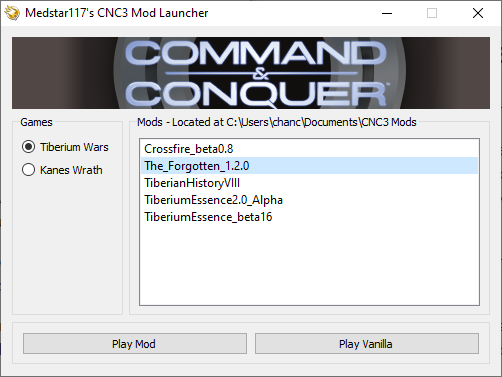
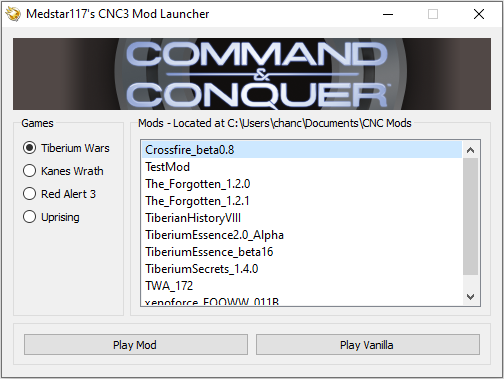
v1.3 Update
+ Added support for both RA3 and Uprising
+/- Updated all files to v1.3

Changed region(s): [[0.2092, 0.0875, 0.9562, 0.817], [0.0, 0.0, 1.0, 1.0], [0.508, 0.8753, 0.9562, 0.9629]]

diff --git a/source/CNC3 Mod Installer.py b/source/CNC3 Mod Installer.py
@@ -110,6 +110,32 @@ class Window(QWidget):
             self.setListItems(game_data[game]["Mods"])
             self.selectedGame = game
 
+    def startGame(self):
+        """Runs the appropriate game executable."""
+
+        def _runStandard():
+            os.chdir(game_data[self.selectedGame]["Launcher Path"])
+            game_exe = game_data[self.selectedGame]["EXE Name"]
+            if os.path.exists(game_exe):
+                call(game_exe)
+            else:
+                call(game_exe.lower())
+
+        def _runOrigin(origin):
+            """Run game from Origin launcher."""
+            if game_data[origin]["Launcher Path"] != False:
+                os.chdir(game_data[origin]["Launcher Path"])
+                print(os.getcwd())
+                call(game_data[origin]["EXE Name"])
+            else:
+                _runStandard()
+
+        #Add Game Selection
+        if self.selectedGame == "Tiberium Wars" or self.selectedGame == "Kanes Wrath":
+            _runOrigin("Origin 3")
+        elif self.selectedGame == "Red Alert 3" or self.selectedGame == "Uprising":
+            _runOrigin("Origin RA3")
+
     def install_playGame(self):
         """Check selected mod and either install the mod or restore the retail
         .SkuDef file before launching the appropriate executable."""
@@ -139,21 +165,6 @@ class Window(QWidget):
                     skudef.write("add-config {}\n".format(file))
                 skudef.writelines(orig_skudef_lang_data)
 
-        def _startGame():
-            """Runs the appropriate game executable."""
-            if self.selectedGame == "Tiberium Wars" or "Kanes Wrath":
-                if game_data["Origin"]["Launcher Path"] != False:
-                    os.chdir(game_data["Origin"]["Launcher Path"])
-                    call(game_data["Origin"]["EXE Name"])
-                else:
-                    os.chdir(game_data[self.selectedGame]["Launcher Path"])
-                    game_exe = game_data[self.selectedGame]["EXE Name"]
-                    if os.path.exists(game_exe):
-                        call(game_exe)
-                    else:
-                        call(game_exe.lower())
-
-
         #TODO: Expect language files other than "CNC3_english_1.9.SkuDef"
         #(e.g. "CNC3_french_1.9.SkuDef", etc.)
         button_name = self.sender().text()
@@ -164,10 +175,10 @@ class Window(QWidget):
 
         if button_name == "Play Mod":
             _install_mod()
-            _startGame()
+            self.startGame()
         elif button_name == "Play Vanilla":
             _restoreSkuDef()
-            _startGame()
+            self.startGame()
 
 
 """---------------------------Non-GUI Functions---------------------------"""
@@ -217,16 +228,22 @@ def fetch_mods(path):
 """------------------------Main Loop Initialization------------------------"""
 if __name__ == "__main__":
     #General data
-    launcher_names = ["origin_launcher_path", "tiberium_launcher_path", "kane_launcher_path"]
-    exe_names = ["CNC3Launcher.exe", "CNC3.exe", "CNC3EP1.exe"]
-    supported_games = ["Tiberium Wars", "Kanes Wrath"]
+    #Add Game Launcher
+    launcher_names = ["origin_3_launcher_path", "tiberium_launcher_path", "kane_launcher_path",
+                      "origin_ra_launcher_path", "ra_launcher_path", "uprising_launcher_path"]
+    #Add Game EXE
+    exe_names = ["CNC3Launcher.exe", "CNC3.exe", "CNC3EP1.exe",
+                 "RA3Launcher.exe", "RA3.exe", "RA3EP1.exe"]
+    #Add Game Supported Game
+    supported_games = ["Tiberium Wars", "Kanes Wrath",
+                       "Red Alert 3", "Uprising"]
+                       #"Generals", "Zero Hour"]
+
     supported_games_count = len(supported_games)
 
     #Set mod paths
     cnc_mods_path = os.path.join(os.path.expanduser("~"), "Documents", "CNC Mods")
-    tiberium_mods_path = os.path.join(cnc_mods_path, "Tiberium Wars")
-    kane_mods_path = os.path.join(cnc_mods_path, "Kanes Wrath")
-    mod_paths = [tiberium_mods_path, kane_mods_path]
+    mod_paths = [os.path.join(cnc_mods_path, game) for game in supported_games]
 
     #Check if expected paths exist; if not, create them.
     for path in mod_paths:
@@ -240,7 +257,7 @@ if __name__ == "__main__":
     if os.path.exists(path_info) == True:
         with open(path_info, "r") as data:
             paths = load(data)
-        launcher_paths = [paths[name] for name in launcher_names]#Origin, Tiberium, Kane
+        launcher_paths = [paths[name] for name in launcher_names]#Origin3, Tiberium, Kane, OriginRA3, RA3, Uprising
     else:
         launcher_dict = find_launchers()
         launcher_paths = [launcher_dict[exe] for exe in exe_names]

diff --git a/README.md b/README.md
@@ -1,50 +1,50 @@
 # Command and Conquer 3 Mod Installer/Launcher
 
 <p align="center">
- <a href="https://github.com/Medstar117/cnc3-origin-mod-installer/releases/download/v1.2/CNC3_Mod_Installer.exe">
+ <a href="https://github.com/Medstar117/cnc3-origin-mod-installer/releases/download/v1.3/CNC3_Mod_Installer.exe">
   <span>
    <strong>>>>>>>>>>>DOWNLOAD RELEASE v1.2<<<<<<<<<<</strong>
   </span>
  </a>
 </p>
 
- ***NOTICE: YOU MUST HAVE PATCH 1.09 FOR TIBERIUM WARS AND PATCH 1.02 FOR KANE'S WRATH!!!***
- 
+ ***NOTICE: YOU MUST HAVE PATCH 1.09 FOR TIBERIUM WARS, PATCH 1.02 FOR KANE'S WRATH, PATCH 1.12 FOR RED ALERT 3, AND PATCH 1.0 FOR UPRISING!!!***
+
  ***NOTICE 2:*** As of right now, whenever you press the "Play Mod" button, the mod will stay installed until you press the "Play Vanilla" button. Later on down the road, I may add a process monitoring hook into place so that the game is restored whenever the user exits the program. So, if you use this, then you had better get used to it!
 
  # Description
- 
+
  ***-----------------------------------------------READ ABOVE BEFORE PROCEEDING-----------------------------------------------***
 
  A simplistic mod installer/launcher made for use with Command and Conquer 3 in the Command and Conquer Ultimate Collection.
- 
+
  This mod installer is mainly intended for those who own Command and Conquer: The Ultimate Collection on Origin as its CNC executables have command line options disabled, making the option for running a direct mod launcher nearly impossible. This launcher also works with non-Origin versions of Command and Conquer 3 (funtionality enabled in v1.2).
- 
+
  Written in Python and compiled into an executable with PyInstaller, this launcher simply copies the file paths of a mod's .skudef file and edits the core CNC3 .SkuDef file, forcing the game to read the custom data files, allowing the selected mod to be played.
- 
+
  **Note:** This launcher only works with mods that solely use .big and .skudef files. If your mod only has .ini files or whatever, this launcher does not support that type of installation (but I will happily add such functionality in the future).
- 
+
  I will include other games from the Ultimate Edition (Generals, Zero Hour, Red Alert 3, etc.) that are modifyable whenever I gain the knowledge on how to modify each game.
- 
+
  ***DISCLAIMER:*** Any copyrighted work within this repository (images, etc.) belong to their original creators/owners, not me. If any issues arise concerning copyrighted material, please post an issue; I will see it and tend to it accordingly.
- 
+
  <br></br>
 
 <p align="center">
   <img src="https://github.com/Medstar117/cnc3-mod-installer/blob/master/launcher.PNG">
 </p>
- 
+
  <br></br>
- 
+
  # How To Use
-  
+
  1. ***Add your mod (above mods listed are not included)*** - The launcher automatically generates a folder labeled "CNC Mods" located at "C:/Users/CURRENT USER/Documents/"; within that folder are folders corresponding to each supported game. Simply place your desired mod's folder into its respectful game folder, then let the launcher do the rest--it will find all .skudef and .big files for your mod, even if there are other files within your mod's folder.
- 
+
  2. ***Start the executable*** - Initially, the executable will take a bit of time (about 30 seconds) to load as it has to locate all of the CNC3 executables on your system; after the first run, it will load very quickly as it will have that information saved to a "path_locations.info" file.
- 
+
  3. ***Select your game and mod*** - In the picture above, you will see 2 sections: the game list and the mod list. Select which game you want to play on the left, and the mods related to it will be listed on the right. Just select which mod you want to play and click the "Play Mod" button--the launcher will then install the mod and run the appropriate executable; alternatively, you can select the "Play Vanilla" button, which will ensure that your game's directory is cleaned of mods before running the appropriate executable.
- 
+
  4. ***Enjoy!*** - Your mod has been installed! After pressing either "Play Mod" or "Play Vanilla", the desired game will run. For TUC users, the standard "CNCLauncher" window will open--just select what game you want on there like normal; there is no bypass to that extra window opening. That's it!
- 
+
  # >>>CNC Online Users<<<
   If you currently use CNC-Online's multiplayer launcher and want to use your mods online, then you're in luck! Make sure that you hook your games within CNC-Online's launcher so that your games have the ability to play online. Afterwards, run the mod launcher in accordance with the steps above. The CNC-Online launcher will open like normal, and you will have to select again which game you want to play.
